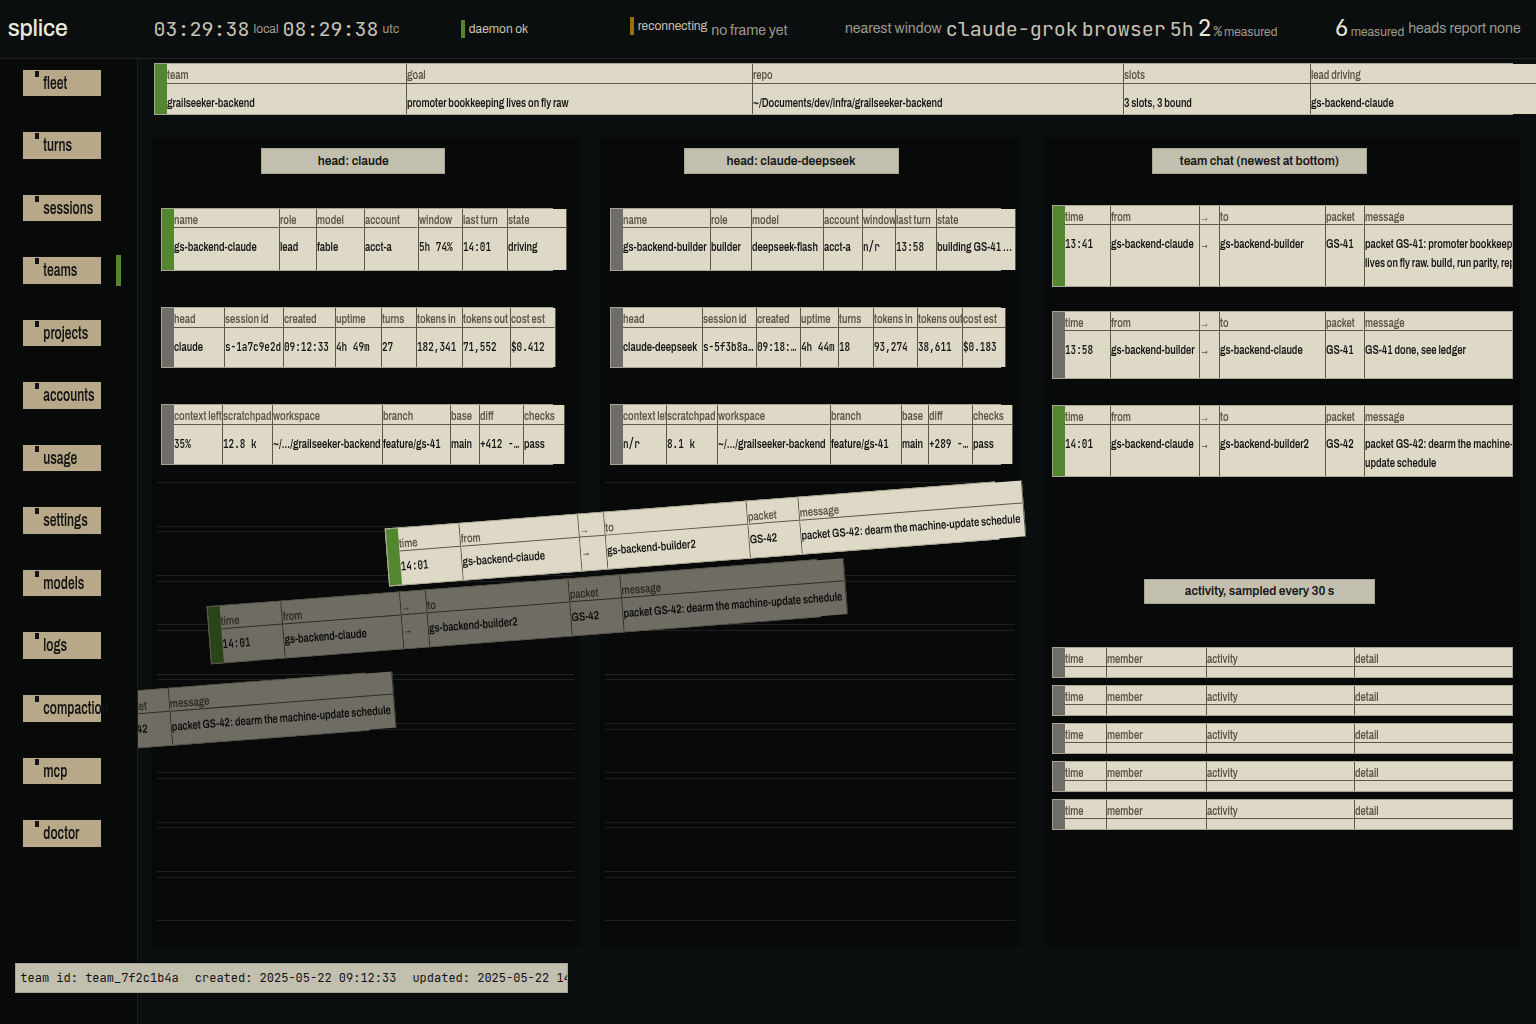
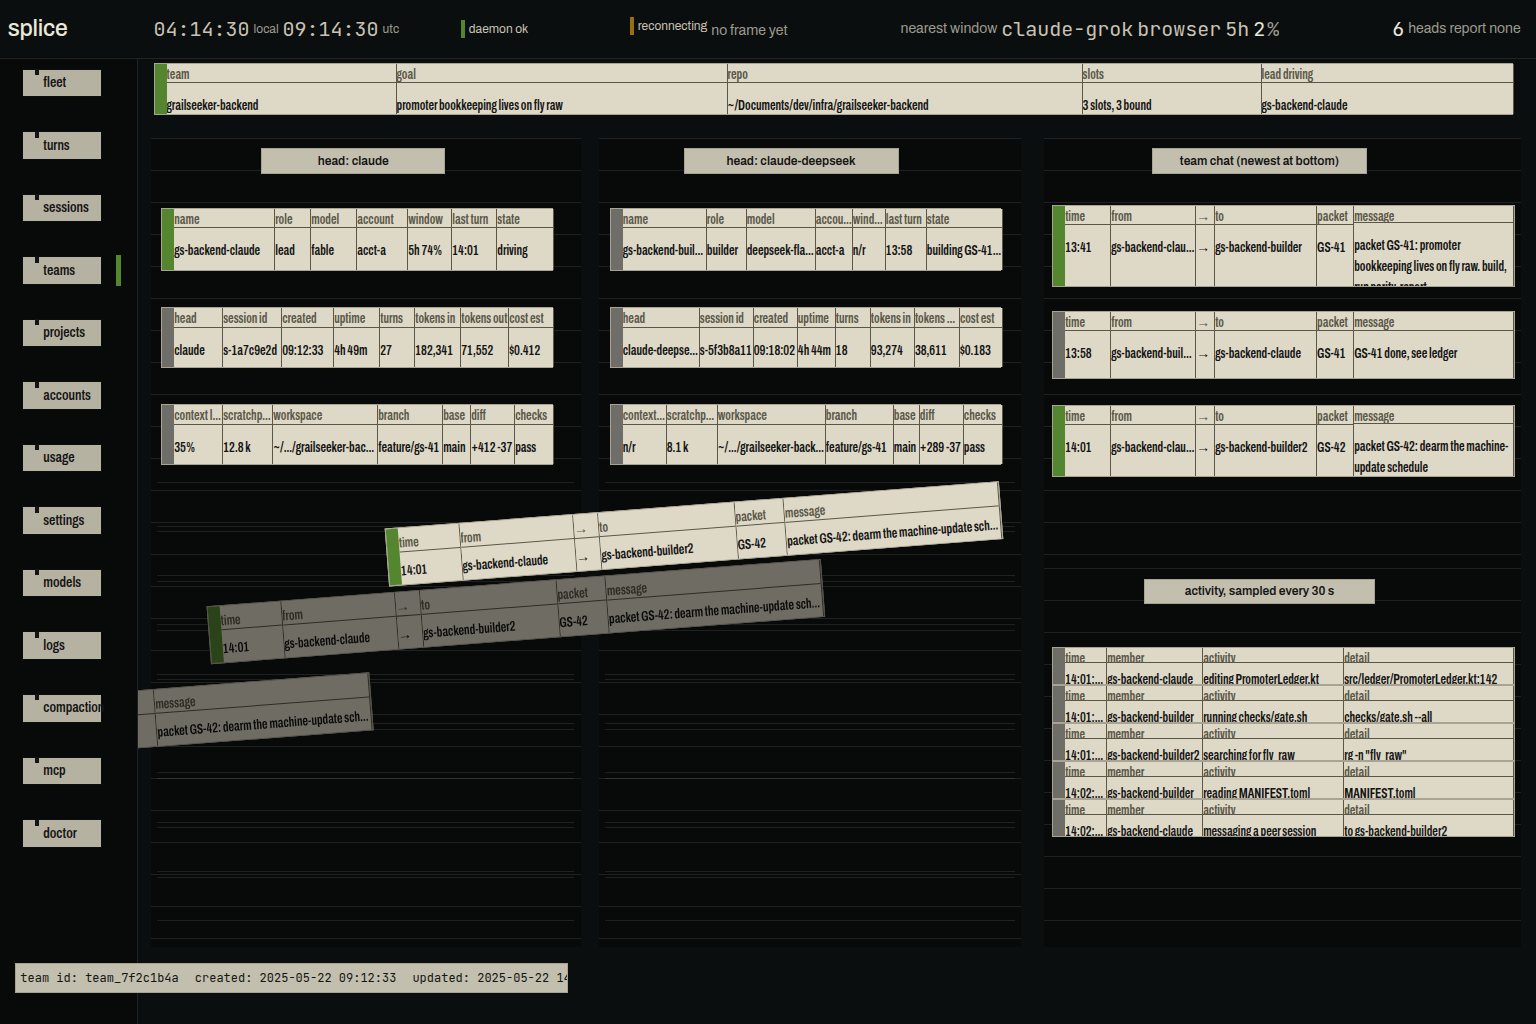
feat(webui): M1-15 measure the comp's figure advance, and ship no font
A null result, measured, and recorded so nobody runs this search again.

The comp's figures advance 4.67px at --text-1, which is 0.389em, taken
across seventeen strings on five strips and mono-tight at pstdev 0.27.
Every monospace in circulation sits between 0.5em and 0.75em. Measured in
the running page: JetBrains Mono 7.20px, Martian Mono 7.20px at its wdth
floor of 75 (its axis only widens), Recursive 7.20px at MONO 1, Iosevka
6.02px with no width setting that moves it. Iosevka Narrow's published
0.4375em would still be twelve percent wide and is not published as a
webfont at all. Nothing lands within ten percent.

The reading that follows is the one that matters: at 0.389em the comp did
not set its figures in a monospace, because no monospace is that narrow. It
set them in a condensed proportional face, which is Archivo at wdth 62 —
52.9px against the comp's 48. So the board's label face with tabular-nums
is not a workaround waiting on a font. It is the measured answer, and the
deviation recorded in M1-10 is discharged.

board.css carries the comp's number and every candidate's beside it.

diff --git a/webui/src/widgets/team-board/board.css b/webui/src/widgets/team-board/board.css
@@ -77,9 +77,16 @@
   border-bottom: var(--hair) solid var(--strip-ink-mute);
 }
 /* The board's values are set in the same condensed face as its labels, with
-   tabular figures so the columns still line up strip to strip. JetBrains Mono
-   has no width axis, so at a legal size its advance (0.6em against the comp's
-   0.34em) cannot fit the comp's own columns; see the row note. */
+   tabular figures so the columns still line up strip to strip. This is a
+   MEASURED deviation, not a workaround, and M1-15 re-derived it rather than
+   assuming it: on team-board-a.png the comp's figures advance 4.67px at
+   --text-1 (0.389em) across seventeen strings of five strips, mono-tight
+   (pstdev 0.27), and every monospace obtainable at or above the type floor is
+   wider than that -- JetBrains Mono 7.20px (+54%), Martian Mono 7.20px at its
+   wdth floor of 75 (+54%), Recursive 7.20px at MONO 1 (+54%), Iosevka 6.02px
+   (+29%), and Iosevka Narrow's published 0.4375em would still be +12% and is
+   not published as a webfont. Archivo at wdth 62 reaches 52.9px on the comp's
+   48px sample, +10%, so it is the closest face that exists. */
 .myx-board .myx-sfield-value {
   font-family: var(--font-label);
   font-variant-numeric: tabular-nums;
